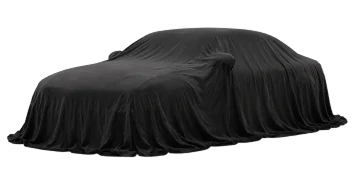
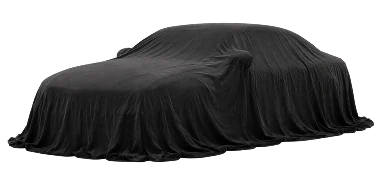
Update Car Card photos (new 380x179 webp) and widen card to 432px

diff --git a/styles/components.css b/styles/components.css
@@ -488,7 +488,7 @@
   gap: 24px;
   box-sizing: border-box;
   width: 100%;
-  max-width: 405px;
+  max-width: 432px; /* 380px фото + 26px паддинг × 2 — фото встаёт нативно */
   padding: 26px;
   border-radius: 30px;
   background: rgba(255,255,255,.6);
